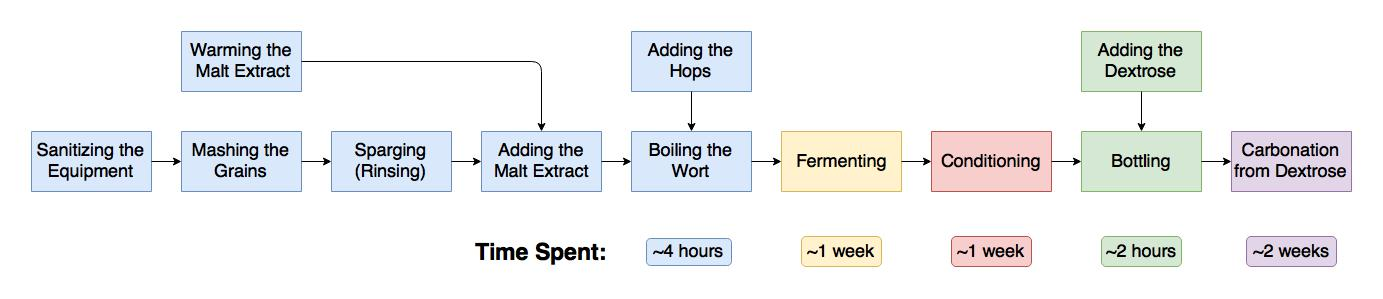
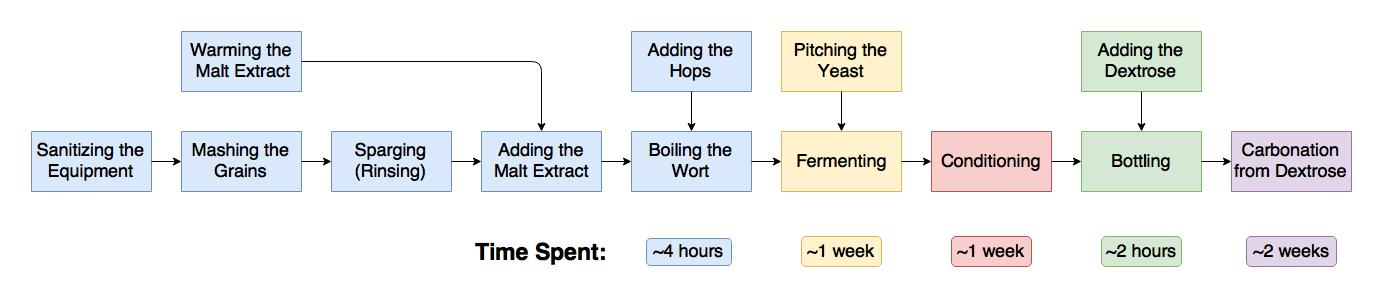
edit_text (#22)
fixed flowchart and text

Changed region(s): [[0.5597, 0.0903, 0.6529, 0.3311]]

diff --git a/content/blog/beer.md b/content/blog/beer.md
@@ -7,24 +7,6 @@ banner = "/img/blog/beer/logo.png"
 author = "Eric Loong"
 +++
 
-With the Student AIChE/CACHE National Mobile Device APP Competition around the corner, our team has been working hard in exploring different ideas to showcase our creativity in a practical design. As part of our lab course field trips, many of us have visited local breweries to gain a general overview of how the general brewing process works. Keeping this in mind, we decided to try something that none of us have done before: creating an app to automate the brewing of craft beer. To create this app, we first had to be confident in carrying out the brewing process itself. Thus, we are proud to present the CHBE Brewing team, a sub-division of the Chem-E-Car team!
-
-<img src="/img/blog/beer/logo.png" width="100%">
-<i>Logo design courtesy of [Amanda Penuta](https://www.amandapenuta.com/).</i>
-
-We began with browsing the web on what kind of equipment would be required to begin brewing. Without any prior experience in brewing, it was difficult to know whether we really -needed- that $300 "All-in-One Reactor". Instead, we chose to drop by some local homebrewing businesses to learn more about the process. We ended up going to Centennial Homebrewing Supplies and speaking with the owner, Brian Janzen. Brian was extremely informative, guiding us through the steps of homebrewing; from choosing the right equipment for beginner brewing, to bottling the brew at the very end. His tutorial can be found [here](https://www.youtube.com/watch?v=mxdreV_tN1Y/).
-
-<img src="/img/blog/beer/flowchart.jpg" width="100%">
-<i>Overview of the extract brewing process that we followed.</i>
-
-
-Armed with this new knowledge, we purchased the equipment and got to work. We began with sanitizing all the equipment with Sani-brew (1 tbsp. powder/L of water) cleaning solution. This is to ensure that chance of bacterial growth or contamination is minimized. The next step is to "mash the grains". Contrary to what we initially thought, it had nothing to do with physically mashing the grains. This step involved adding 1L of water for each lb of grain that we had (2.5L of water in our case) to a pot and bringing the temperature up to ~145 to 155°F (~63 to 68°C). This mixture was then allowed to steep for about 60 minutes. Due to the uneven heating from the stove we were using, the grains ended up being slightly burnt... but that just adds more flavor to the brew, right? (To be confirmed)
-
-As the grains were steeping, another pot of water was heated up to about 175°F (~79°C). This pot of water was used in the sparging (rinsing) step. This was done by pouring the steeped grains mixture into a colander, and the additional water through the grains into another pot. The liquid that drains through is the base of our wort, while the spent grains were disposed of. The liquid malt extract was added to the wort base and stirred well until the mixture was uniform. This was done before the stove was turned on to prevent the mixture from burning and sticking to the bottom of the pot. The mixture was then brought to a boil. During this boiling time, the primary fermenter was sanitized using the Sani-brew cleaning solution.
-
-Once the wort was boiling, we set a timer for 60 minutes of boiling. Throughout this timeframe, hops were added at different times. For example, the Pacific ESB we were making required the 3 bags of hops to be added in at 0 minutes (beginning of boil), 45 minutes, and 55 minutes of boiling time. Once the boiling time was complete, the wort was then plunged into an ice bath to cool it down. As Vancouver has been experiencing heavy snowfall (by our standards), our ice bath consisted of snow and ice taken from right outside our doorstep. Once the wort reached a temperature of around ~69 to 73°F (~20.5 to 23°C), it was poured into the primary fermenter. The primary fermenter was topped off with water so the total volume of the brew was about 23L, with the temperature being around 21°C for optimal yeast pitching.
-
-Before the yeast was added to the wort, a test was conducted using a hydrometer. This showed the starting gravity of the wort, with the potential final alcohol content (around 6.5% for our brew). The yeast was added to the wort and the primary fermenter was sealed with an airlock (this allows carbon dioxide to escape during fermentation, but nothing to go into the brew). The primary fermenter was then left to sit for about a week.
 
 ## Introduction
 
@@ -42,7 +24,7 @@ We began with browsing the web on what kind of equipment would be required to be
 <img src="/img/blog/beer/flowchart.jpg" width="100%">
 <i>Overview of the extract brewing process that we followed.</i>
 
-### Sanitation
+### Sanitizing
 
 Armed with this new knowledge, we purchased the equipment and got to work. We began with sanitizing all the equipment with Sani-brew (1 tbsp. powder/L of water) cleaning solution. This is to ensure that chance of bacterial growth or contamination is minimized. 
 
@@ -54,15 +36,15 @@ The next step is to "mash the grains". Contrary to what we initially thought, it
 
 As the grains were steeping, another pot of water was heated up to about 175°F (~79°C). This pot of water was used in the sparging (rinsing) step. This was done by pouring the steeped grains mixture into a colander, and the additional water through the grains into another pot. The liquid that drains through is the base of our wort, while the spent grains were disposed of. The liquid malt extract was added to the wort base and stirred well until the mixture was uniform. This was done before the stove was turned on to prevent the mixture from burning and sticking to the bottom of the pot. The mixture was then brought to a boil. During this boiling time, the primary fermenter was sanitized using the Sani-brew cleaning solution.
 
-### Boiling the Wort
+### Boiling
 
 Once the wort was boiling, we set a timer for 60 minutes of boiling. Throughout this timeframe, hops were added at different times. For example, the Pacific ESB we were making required the 3 bags of hops to be added in at 0 minutes (beginning of boil), 45 minutes, and 55 minutes of boiling time. Once the boiling time was complete, the wort was then plunged into an ice bath to cool it down. As Vancouver has been experiencing heavy snowfall (by our standards), our ice bath consisted of snow and ice taken from right outside our doorstep. Once the wort reached a temperature of around ~69 to 73°F (~20.5 to 23°C), it was poured into the primary fermenter. The primary fermenter was topped off with water so the total volume of the brew was about 23L, with the temperature being around 21°C for optimal yeast pitching.
 
-### Yeast Pitching
+### Fermenting
 
 Before the yeast was added to the wort, a test was conducted using a hydrometer. This showed the starting gravity of the wort, with the potential final alcohol content (around 6.5% for our brew). The yeast was added to the wort and the primary fermenter was sealed with an airlock (this allows carbon dioxide to escape during fermentation, but nothing to go into the brew). The primary fermenter was then left to sit for about a week.
 
-### Secondary Fermentation
+### Conditioning
 
 
 After a week of fermentation, the brew was transported into the carboy for conditioning and additional fermentation. The brew was siphoned out using a tube with a filter attached to the end to prevent larger solids from going through. Once all the brew was transported to the carboy, it was sealed with another airlock and left to sit for another week.
@@ -73,19 +55,7 @@ With a total of two weeks of fermentation, the brew was about ready to bottle. A
 
 <i>It was recommended that the reading on the hydrometer to be around 1008 to 1010, which indicates that fermentation was near completion. Our reading was roughly 1014, so pretty close.</i>
 
-At this point, the brew was basically flat (not a lot of carbonation). The next step involved adding 3/4 cup of dextrose (priming sugar) into the brew before bottling. Since the bottles are left capped for two more weeks, the priming sugar causes carbonation to occur. The brew was siphoned into two types of bottles that we purchased: 1L EZ-cap bottles and 330mL bottles with crown caps.
-
-<img src="/img/blog/beer/capper.jpg" height="80%">
-
-<i>Capping is hard work. (No, it's not)</i>
-
-<img src="/img/blog/beer/bottles.jpg" height="80%">
-
-<i>Bottled and ready to drink! (In two weeks)</i>
-
-<i>It was recommended that the reading on the hydrometer to be around 1008 to 1010, which indicates that fermentation was near completion. Our reading was roughly 1014, so pretty close.</i>
-
-### Carbonation and Bottling
+### Bottling and Carbonation
 
 At this point, the brew was basically flat (not a lot of carbonation). The next step involved adding 3/4 cup of dextrose (priming sugar) into the brew before bottling. Since the bottles are left capped for two more weeks, the priming sugar causes carbonation to occur. The brew was siphoned into two types of bottles that we purchased: 1L EZ-cap bottles and 330mL bottles with crown caps.
 
@@ -96,5 +66,6 @@ At this point, the brew was basically flat (not a lot of carbonation). The next 
 <img src="/img/blog/beer/bottles.jpg" height="80%">
 
 <i>Bottled and ready to drink! (In two weeks)</i>
+
 
 Now we just need to wait about one more week from this time of posting for the carbonation to finalize. Hopefully we will have great tasting beer to drink!
